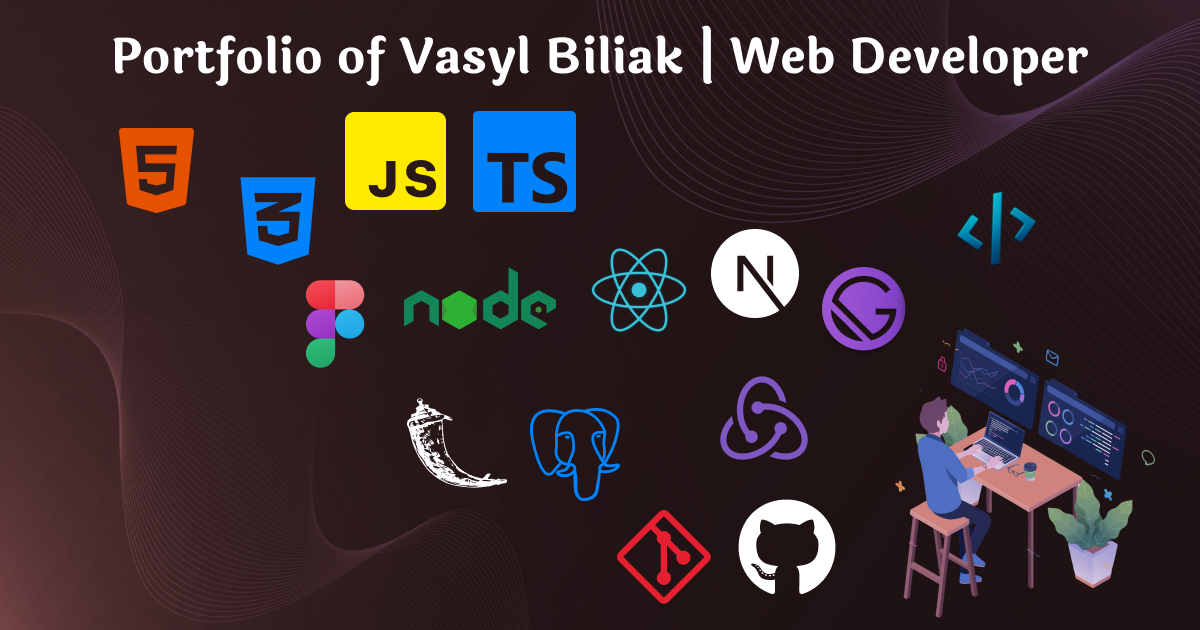
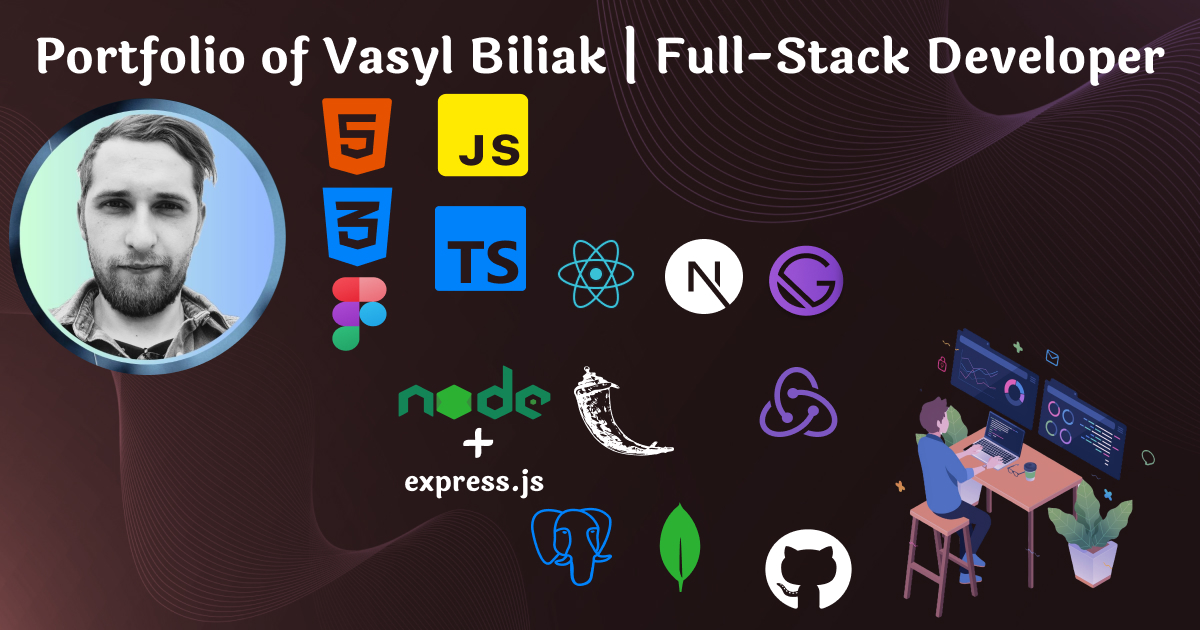
fix: fix bug with owl briefly appearing in light theme, update main background color for light and dark themes, change description from frontend to full-stack developer in Home, About me sections and meta tags

diff --git a/src/components/backgroundImage/BackgroundImage.tsx b/src/components/backgroundImage/BackgroundImage.tsx
@@ -5,51 +5,41 @@ import OwlImage from "./OwlImage";
 import TitImage from "./TitImage";
 
 const BackgroundImage: React.FC = () => {
-    const getInitialTheme = () => {
-        return localStorage.getItem("theme") || document.documentElement.getAttribute("data-theme") || "light";
-    };
-
-    const [theme, setTheme] = useState<string>(getInitialTheme);
+    const [theme, setTheme] = useState<string>("");
     const [colorSvg, setColorSvg] = useState<string>("");
-    const [strokeWidth, setStrokeWidth] = useState<string>(theme === "dark" ? "1.5" : "0.5");
+    const [strokeWidth, setStrokeWidth] = useState<string>("0.5");
 
     useEffect(() => {
-        const updateTheme = () => {
-            const currentTheme = localStorage.getItem("theme") || document.documentElement.getAttribute("data-theme") || "light";
-            setTheme(currentTheme);
-            setStrokeWidth(currentTheme === "dark" ? "1.5" : "0.5");
+        if (typeof window !== "undefined") {
+            const updateTheme = () => {
+                const currentTheme = localStorage.getItem("theme") || document.documentElement.getAttribute("data-theme") || "";
+                setTheme(currentTheme);
+                setStrokeWidth(currentTheme === "dark" ? "1.5" : "0.5");
 
-            const color = getComputedStyle(document.documentElement)
-                .getPropertyValue("--svg-color")
-                .trim();
-            setColorSvg(color);
-        };
+                const color = getComputedStyle(document.documentElement)
+                    .getPropertyValue("--svg-color")
+                    .trim();
+                setColorSvg(color);
+            };
 
-        updateTheme();
+            updateTheme();
 
-        const observer = new MutationObserver(updateTheme);
-        observer.observe(document.documentElement, { attributes: true, attributeFilter: ["data-theme"] });
+            const observer = new MutationObserver(updateTheme);
+            observer.observe(document.documentElement, { attributes: true, attributeFilter: ["data-theme"] });
 
-        return () => observer.disconnect();
+            return () => observer.disconnect();
+        }
     }, []);
 
     return (
         <div className={styles.background_container}>
-            {theme === "light" ? <TitImage /> : <OwlImage />}
+            {theme === "dark" ? <OwlImage /> : theme === "light" ? <TitImage /> : null}
             <div className={styles.background_wrapper}>
                 <div className={styles.mirrored_svg}>
-                    <MySVG stroke={colorSvg}
-                           width="100%"
-                           height="100%"
-                           strokeWidth={strokeWidth}
-                           quality={100} />
+                    <MySVG stroke={colorSvg} width="100%" height="100%" strokeWidth={strokeWidth} quality={100} />
                 </div>
                 <div className={styles.background_image}>
-                    <MySVG stroke={colorSvg}
-                           width="100%"
-                           height="100%"
-                           strokeWidth={strokeWidth}
-                           quality={10} />
+                    <MySVG stroke={colorSvg} width="100%" height="100%" strokeWidth={strokeWidth} quality={10} />
                 </div>
             </div>
         </div>

diff --git a/src/components/about/About.tsx b/src/components/about/About.tsx
@@ -4,17 +4,23 @@ import {StaticImage} from "gatsby-plugin-image";
 
 const About: React.FC = () => {
     return (
-        <div className={styles.info_dp_section}>
+        <div className={styles.info_section}>
             <div className={styles.about_info}>
                 <p tabIndex={0}>
-                    In the past, I worked as a software developer for industrial controllers and created Human-Machine Interfaces (HMI panels).
-                    This experience gave me a solid understanding of the importance of adaptive and user-friendly interfaces. Now, I’m a freelance
-                    frontend developer, working with technologies such as JavaScript, Next.js, Gatsby, as well as React and TypeScript. In addition
-                    to development, I’m actively learning SEO and implementing best practices to improve website visibility in search engines. My goal
-                    is to create efficient and user-friendly solutions that meet the needs of users and align with modern web standards.
+                    In the past, I worked as a software developer for industrial controllers, creating Human-Machine Interfaces (HMIs). In simple terms,
+                    these are touch panels that allow maintenance personnel and factory operators to control equipment and monitor processes.
+                    This experience gave me a deep understanding of the importance of adaptive and user-friendly interfaces.
+                    Currently, I work as a freelance full-stack developer, utilizing technologies such as JavaScript, Next.js, Gatsby, React, and TypeScript on
+                    the frontend, and Node.js, Express, Python, Flask and PostgreSQL/MySQL/MongoDB on the backend. I build RESTful APIs, integrate third-party
+                    services, and implement authentication mechanisms such as JWT and OAuth. Additionally, I focus on database optimization and
+                    efficient data management to nsure scalability and performance.
+                    My goal is to create solutions that are not only functional but also efficient and intuitive for users. Additionally, I am actively
+                    learning SEO and implementing best practices to improve website visibility in search engines. I am constantly refining my skills
+                    and staying up-to-date with the latest web development trends.
+                    I am results-driven and quality-focused, always striving to find the optimal solution for every project, no matter its complexity.
                 </p>
             </div>
-            <div className={styles.dp}>
+            <div className={styles.wrapper_image}>
                 <StaticImage className={styles.image}
                              src="../../images/Me.png"
                              alt="My description"

diff --git a/gatsby-config.ts b/gatsby-config.ts
@@ -7,9 +7,9 @@ const config: GatsbyConfig = {
   siteMetadata: {
     siteTitle: `Portfolio of Vasyl Biliak`,
     siteTitleAlt: `Portfolio of Vasyl Biliak`,
-    siteHeadline: `Showcasing the Development and Design Work of Vasyl Biliak`,
+    siteHeadline: `Showcasing the Full-Stack Development and UI/UX Expertise of Vasyl Biliak`,
     siteUrl: `https://vasylbiliak.github.io`,
-    siteDescription: `A personal portfolio by Vasyl Biliak, featuring modern web development and design using cutting-edge technologies like HTML, CSS, JavaScript, TypeScript,React and Gatsby!`,
+    siteDescription: `Freelance full-stack developer with experience in creating adaptive, user-friendly interfaces and building scalable, efficient web applications using modern technologies like JavaScript, React, Node.js, and databases such as PostgreSQL, MySQL, and MongoDB.`,
     siteImage: `/portfolio/siteImg.jpg`,
     siteLanguage: `en`,
     author: `VasylBiliak`,
@@ -25,8 +25,8 @@ const config: GatsbyConfig = {
       resolve: `gatsby-plugin-manifest`,
       options: {
         name: `Vasyl Biliak Portfolio`,
-        short_name: `BV Portfolio`,
-        description: `A personal portfolio by Vasyl Biliak, featuring modern web development and design using cutting-edge technologies like HTML, CSS, JavaScript, TypeScript,React and Gatsby!`,
+        short_name: `VB Portfolio`,
+        description: `A portfolio of Vasyl Biliak, a freelance developer specializing in frontend and backend development with cutting-edge web technologies, delivering user-centric and scalable solutions.`,
         start_url: `/portfolio`,
         background_color: `#0f7878`,
         display: `standalone`,

diff --git a/src/components/Home.tsx b/src/components/Home.tsx
@@ -49,7 +49,7 @@ const Home: React.FC = () => {
                 className="about_my"
             >
                 <div>
-                    <TextAnimation text="Frontend "/>
+                    <TextAnimation text="Full-Stack "/>
                 </div>
                 <div>
                     <TextAnimation text="Developer"/>
@@ -57,7 +57,8 @@ const Home: React.FC = () => {
             </motion.h2>
             <p className="text_description">
                 <AnimatedTypingText
-                    text={"I'm passionate about building interactive, accessible, and responsive websites and web applications. I enjoy exploring new technologies, concepts, and best practices in web development. I’m always looking for ways to enhance my skills and create innovative solutions."}
+                    text={"I am a young enthusiast passionate about creating interactive, user-friendly, and responsive websites and web applications. I love exploring new technologies, concepts, and best practices in web development. I am always looking for ways to improve my skills and build innovative solutions."
+                }
                     duration={5}/>
             </p>
         </section>

diff --git a/src/components/about/about.module.css b/src/components/about/about.module.css
@@ -1,4 +1,4 @@
-.info_dp_section {
+.info_section {
     width: 100%;
     display: grid;
     grid-template-columns: 1fr auto;
@@ -23,7 +23,7 @@
     background-color: var(--color-bg-section-el);
 }
 
-.dp {
+.wrapper_image {
     display: flex;
     justify-content: center;
     align-items: center;
@@ -39,7 +39,7 @@
 }
 
 @media (max-width: 768px) {
-    .info_dp_section {
+    .info_section {
         grid-template-columns: 1fr;
     }
 

diff --git a/src/styles/global.css b/src/styles/global.css
@@ -173,7 +173,7 @@ p, input, textarea {
     );
 
     /* SVG */
-    --svg-color: var(--color-blue-light);
+    --svg-color: var(--color-green-dark);
 
 }
 
@@ -241,7 +241,7 @@ p, input, textarea {
     );
 
      /*SVG */
-    --svg-color: var(--color-green-dark);
+    --svg-color: var(--color-blue-light);
 }
 
 body {
